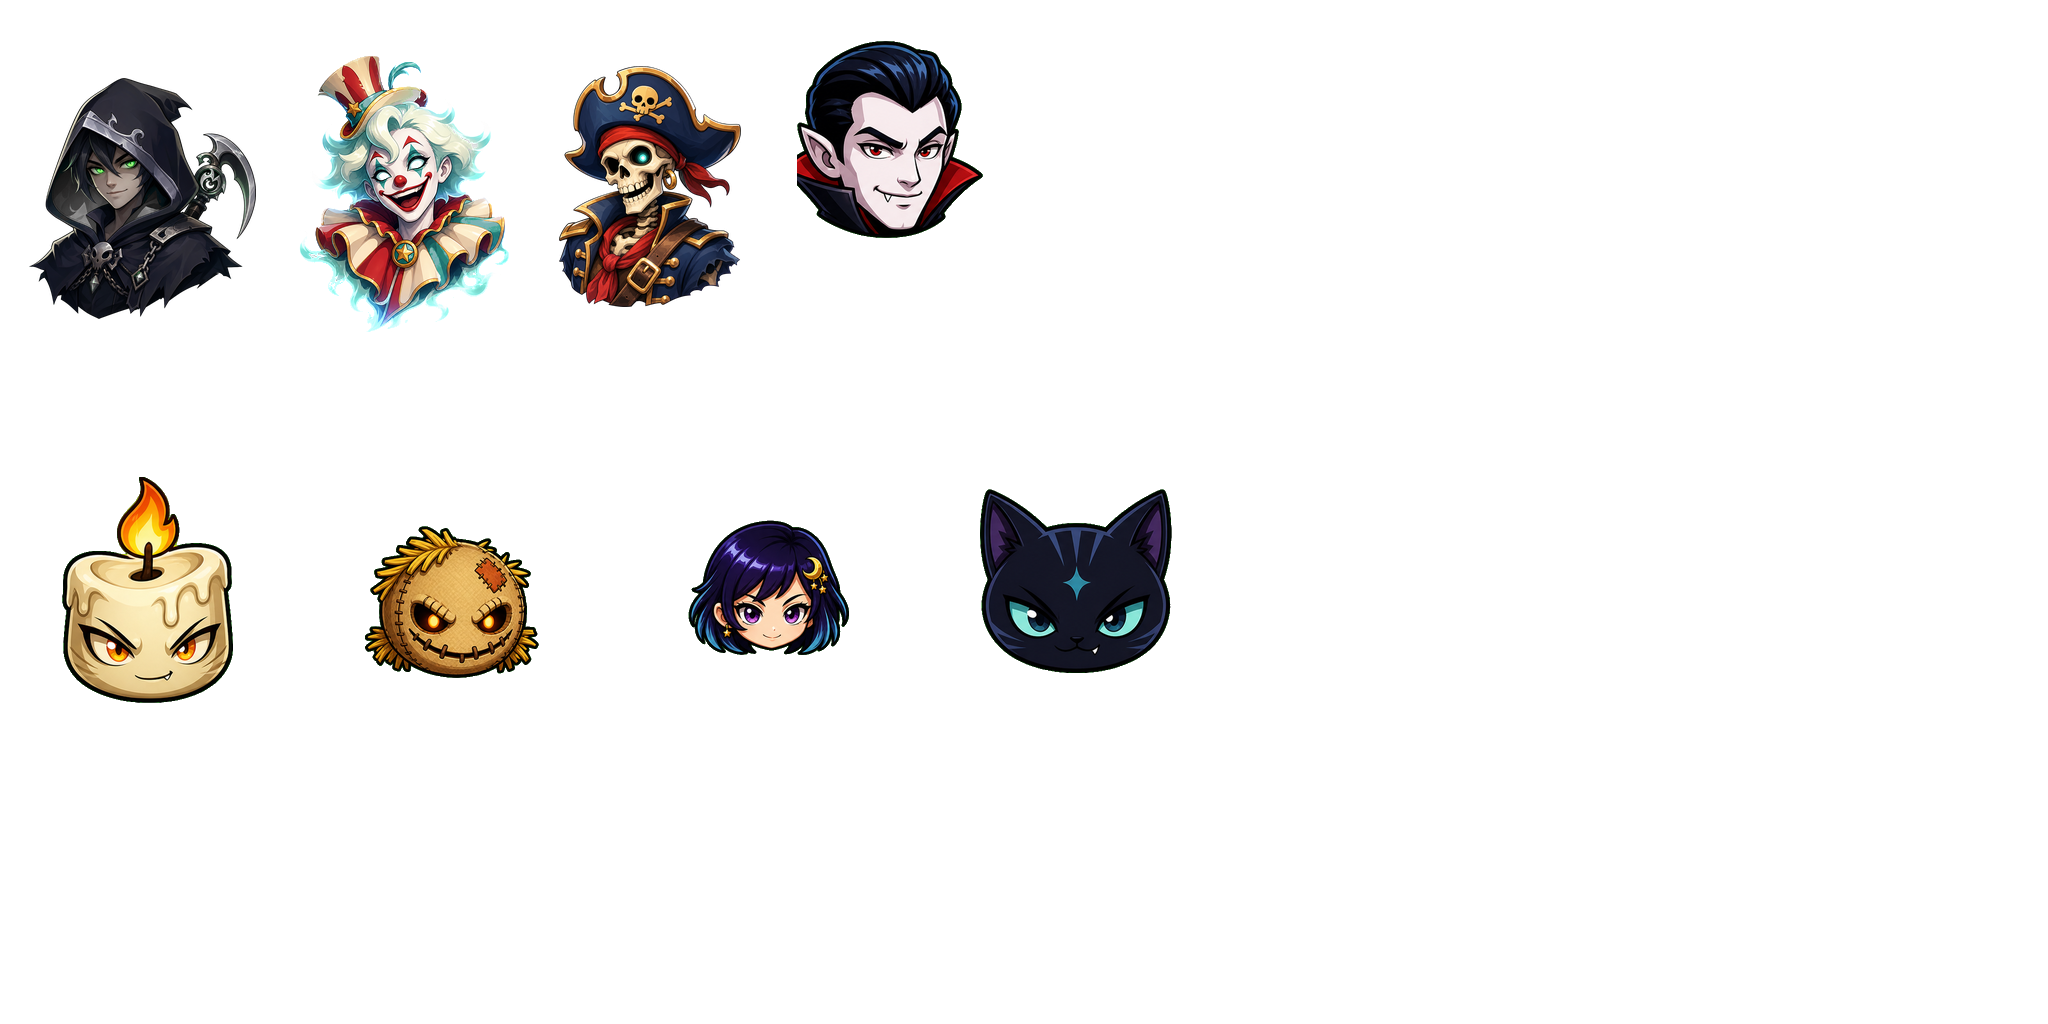
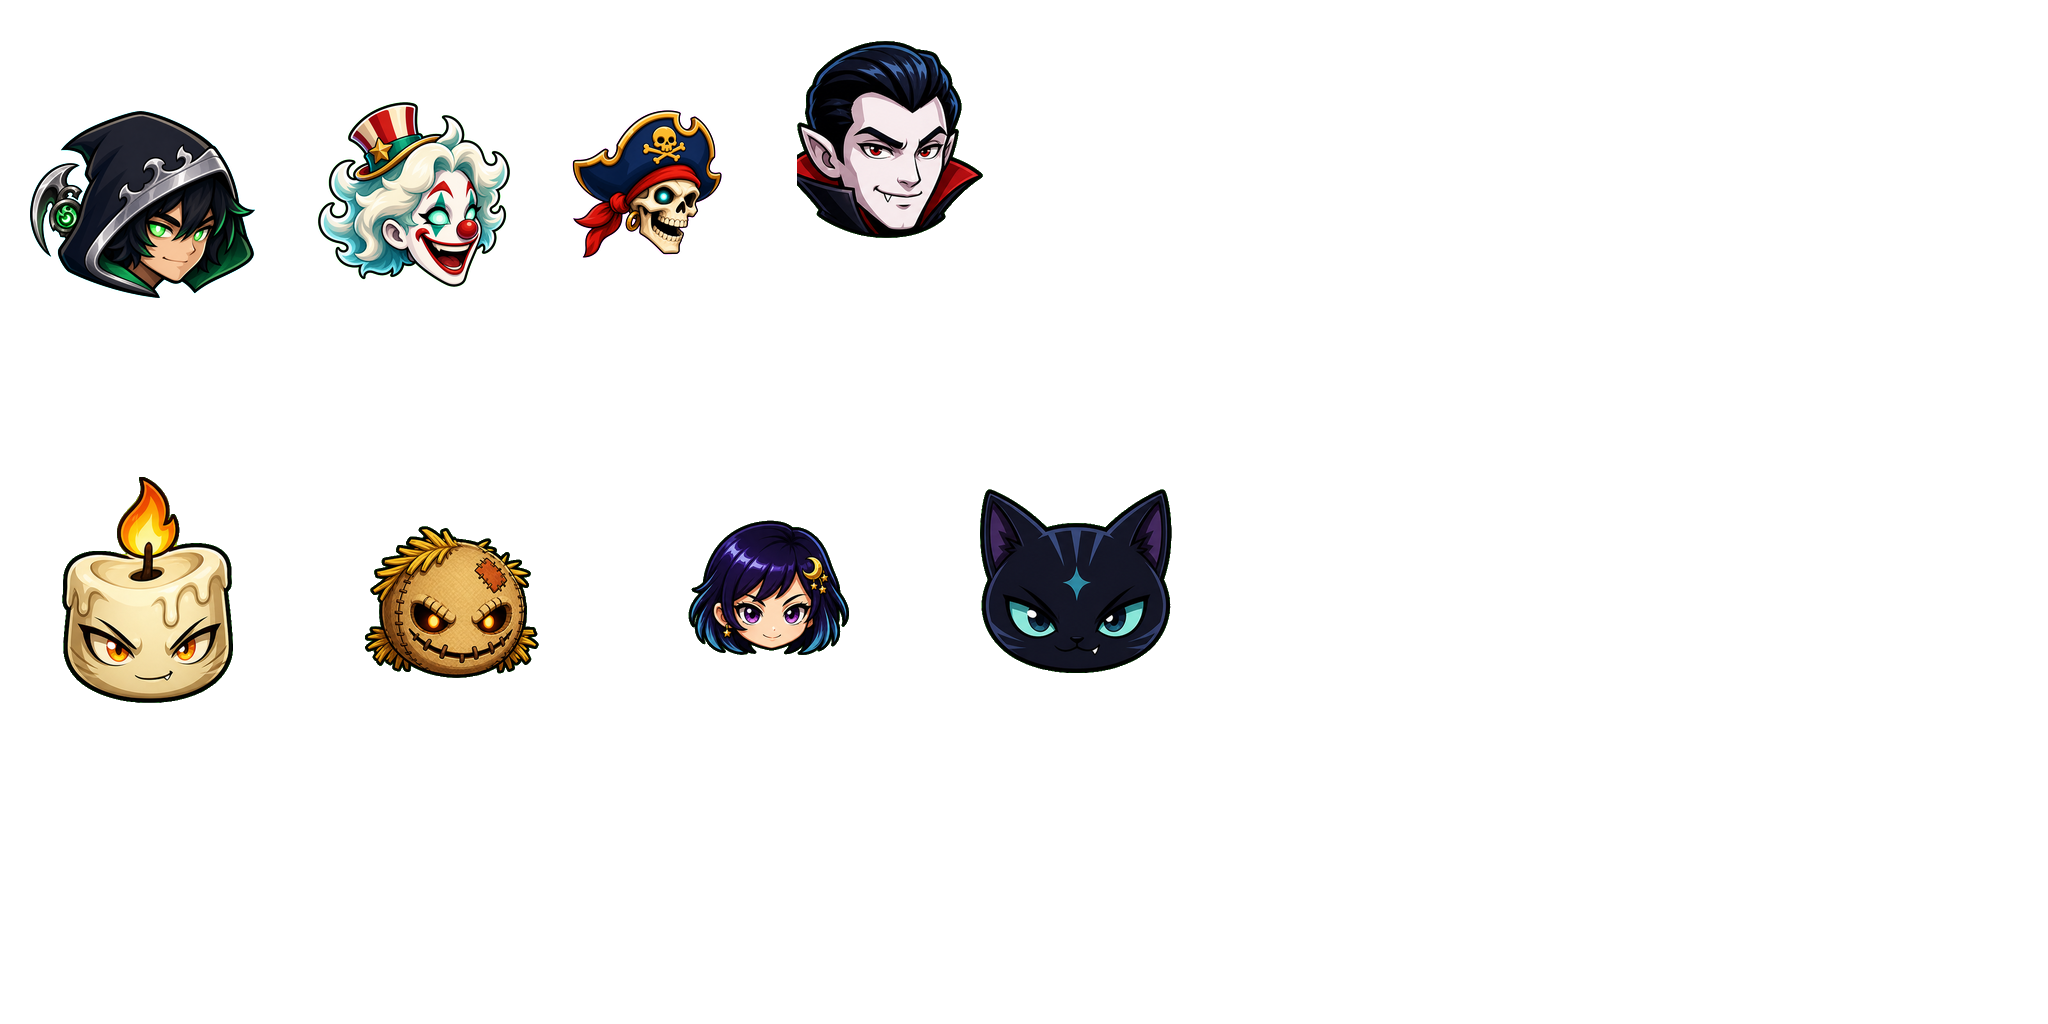
Refine Halloween character head silhouettes

Changed region(s): [[0.0, 0.0625, 0.375, 0.3125]]

diff --git a/Rim_Rush_Championship_Season/Tools/Art/rebuild_character_refresh_assets.py b/Rim_Rush_Championship_Season/Tools/Art/rebuild_character_refresh_assets.py
@@ -1,6 +1,7 @@
 from __future__ import annotations
 
 import json
+from collections import Counter
 from dataclasses import dataclass
 from pathlib import Path
 
@@ -20,13 +21,15 @@ PORTRAITS_PATH = PORTRAITS_DIR / "portraits_ui.png"
 PORTRAITS_JSON_PATH = PORTRAITS_DIR / "portraits_ui.json"
 
 OUTLINE_COLOR = (17, 14, 18)
+DRAGON_BONES_TARGET_PIXELS_PER_UNIT = 2.0
 
 
 @dataclass(frozen=True)
 class CharacterRefresh:
     internal_id: str
     visible_name: str
-    source_cutout: str
+    portrait_source: str
+    gameplay_source: str
     body_theme: str
     portrait_scale: float
     portrait_anchor_y: float
@@ -40,37 +43,40 @@ REPLACEMENTS = (
     CharacterRefresh(
         internal_id="pumpkin",
         visible_name="REAPER ACOLYTE",
-        source_cutout="reaper_acolyte_cutout.png",
+        portrait_source="reaper_acolyte_icon_source.png",
+        gameplay_source="reaper_acolyte_icon_source.png",
         body_theme="reaper",
-        portrait_scale=1.0,
-        portrait_anchor_y=0.53,
-        portrait_anchor_x=0.5,
-        gameplay_scale=1.04,
-        gameplay_anchor_y=0.54,
-        gameplay_anchor_x=0.5,
+        portrait_scale=0.99,
+        portrait_anchor_y=0.56,
+        portrait_anchor_x=0.55,
+        gameplay_scale=1.02,
+        gameplay_anchor_y=0.72,
+        gameplay_anchor_x=0.54,
     ),
     CharacterRefresh(
         internal_id="frankenstein",
         visible_name="GHOST CLOWN",
-        source_cutout="ghost_clown_cutout.png",
+        portrait_source="ghost_clown_icon_source.png",
+        gameplay_source="ghost_clown_icon_source.png",
         body_theme="clown",
         portrait_scale=0.98,
-        portrait_anchor_y=0.5,
+        portrait_anchor_y=0.58,
         portrait_anchor_x=0.5,
-        gameplay_scale=0.94,
-        gameplay_anchor_y=0.5,
-        gameplay_anchor_x=0.5,
+        gameplay_scale=1.0,
+        gameplay_anchor_y=0.75,
+        gameplay_anchor_x=0.51,
     ),
     CharacterRefresh(
         internal_id="mummy",
         visible_name="SKULL PIRATE",
-        source_cutout="skull_pirate_cutout.png",
+        portrait_source="skull_pirate_icon_source.png",
+        gameplay_source="skull_pirate_icon_source.png",
         body_theme="pirate",
-        portrait_scale=0.92,
-        portrait_anchor_y=0.5,
+        portrait_scale=0.97,
+        portrait_anchor_y=0.58,
         portrait_anchor_x=0.5,
-        gameplay_scale=0.9,
-        gameplay_anchor_y=0.5,
+        gameplay_scale=1.0,
+        gameplay_anchor_y=0.76,
         gameplay_anchor_x=0.5,
     ),
 )
@@ -91,6 +97,76 @@ def atlas_lookup(atlas_json: dict) -> dict[str, dict]:
 def trim_alpha(image: Image.Image) -> Image.Image:
     bbox = image.getchannel("A").getbbox()
     return image.crop(bbox) if bbox else image.copy()
+
+
+def border_key_color(image: Image.Image) -> tuple[int, int, int]:
+    src = image.convert("RGBA")
+    pixels = src.load()
+    samples: list[tuple[int, int, int]] = []
+
+    for x in range(src.width):
+        samples.append(pixels[x, 0][:3])
+        samples.append(pixels[x, src.height - 1][:3])
+
+    for y in range(1, src.height - 1):
+        samples.append(pixels[0, y][:3])
+        samples.append(pixels[src.width - 1, y][:3])
+
+    return Counter(samples).most_common(1)[0][0]
+
+
+def remove_chroma_background(
+    image: Image.Image,
+    *,
+    transparent_threshold: float = 16.0,
+    opaque_threshold: float = 84.0,
+) -> Image.Image:
+    src = image.convert("RGBA")
+    key = border_key_color(src)
+    pixels = src.load()
+    out = Image.new("RGBA", src.size, (0, 0, 0, 0))
+    out_pixels = out.load()
+    span = max(0.0001, opaque_threshold - transparent_threshold)
+
+    for y in range(src.height):
+        for x in range(src.width):
+            r, g, b, a = pixels[x, y]
+            if a <= 0:
+                continue
+
+            distance = ((r - key[0]) ** 2 + (g - key[1]) ** 2 + (b - key[2]) ** 2) ** 0.5
+            if distance <= transparent_threshold:
+                continue
+
+            if distance >= opaque_threshold:
+                out_pixels[x, y] = (r, g, b, a)
+                continue
+
+            alpha_scale = (distance - transparent_threshold) / span
+            out_alpha = int(round(a * alpha_scale))
+            if out_alpha <= 0:
+                continue
+
+            # Light despill keeps the contour clean against neon key colors.
+            despill = 0.42 * (1.0 - alpha_scale)
+            out_pixels[x, y] = (
+                int(round(r * (1.0 - despill) + key[0] * despill * 0.18)),
+                int(round(g * (1.0 - despill) + key[1] * despill * 0.18)),
+                int(round(b * (1.0 - despill) + key[2] * despill * 0.18)),
+                out_alpha,
+            )
+
+    return trim_alpha(out)
+
+
+def prepare_source_image(source_name: str) -> Image.Image:
+    source_path = CHARACTER_SOURCE_DIR / source_name
+    source = Image.open(source_path).convert("RGBA")
+    alpha_min, alpha_max = source.getchannel("A").getextrema()
+    if alpha_min == 255 and alpha_max == 255:
+        return remove_chroma_background(source)
+
+    return trim_alpha(source)
 
 
 def premultiplied_resize(image: Image.Image, size: tuple[int, int]) -> Image.Image:
@@ -163,6 +239,26 @@ def fit_subject_to_canvas(
     paste_y = min_y if max_y <= min_y else int(round(min_y + (max_y - min_y) * anchor_y))
     canvas.alpha_composite(fitted, (paste_x, paste_y))
     return canvas
+
+
+def ensure_dragon_bones_resolution(texture: Image.Image, texture_json: dict) -> tuple[Image.Image, dict]:
+    current_pixels_per_unit = float(texture_json.get("pixelsPerUnit", 1.0))
+    scale_factor = DRAGON_BONES_TARGET_PIXELS_PER_UNIT / max(0.0001, current_pixels_per_unit)
+    if abs(scale_factor - 1.0) <= 0.0001:
+        texture_json["pixelsPerUnit"] = DRAGON_BONES_TARGET_PIXELS_PER_UNIT
+        return texture, texture_json
+
+    texture = premultiplied_resize(
+        texture,
+        (int(round(texture.width * scale_factor)), int(round(texture.height * scale_factor))),
+    )
+
+    for sub in texture_json["SubTexture"]:
+        for key in ("x", "y", "width", "height"):
+            sub[key] = int(round(sub[key] * scale_factor))
+
+    texture_json["pixelsPerUnit"] = DRAGON_BONES_TARGET_PIXELS_PER_UNIT
+    return texture, texture_json
 
 
 def crop_subtexture(texture: Image.Image, sub: dict) -> Image.Image:
@@ -361,8 +457,7 @@ def update_portraits() -> tuple[Image.Image, dict[str, dict]]:
     lookup = atlas_lookup(portrait_json)
 
     for replacement in REPLACEMENTS:
-        source_path = CHARACTER_SOURCE_DIR / replacement.source_cutout
-        source = Image.open(source_path).convert("RGBA")
+        source = prepare_source_image(replacement.portrait_source)
         target_name = f"custom_head_{replacement.internal_id}"
         sub = lookup[target_name]
         rendered = fit_subject_to_canvas(
@@ -382,11 +477,11 @@ def update_portraits() -> tuple[Image.Image, dict[str, dict]]:
 def update_dragon_bones() -> tuple[Image.Image, dict[str, dict]]:
     texture = Image.open(TEXTURE_PATH).convert("RGBA")
     texture_json = load_json(TEXTURE_JSON_PATH)
+    texture, texture_json = ensure_dragon_bones_resolution(texture, texture_json)
     lookup = atlas_lookup(texture_json)
 
     for replacement in REPLACEMENTS:
-        source_path = CHARACTER_SOURCE_DIR / replacement.source_cutout
-        source = Image.open(source_path).convert("RGBA")
+        source = prepare_source_image(replacement.gameplay_source)
         head_name = f"custom_head_{replacement.internal_id}"
         head_sub = lookup[head_name]
         rendered_head = fit_subject_to_canvas(

diff --git a/Rim_Rush_Championship_Season/Assets/rimrush/Scripts/Data/rimrushPlayersData.cs b/Rim_Rush_Championship_Season/Assets/rimrush/Scripts/Data/rimrushPlayersData.cs
@@ -36,9 +36,9 @@ namespace rimrush
 
         private static readonly rimrushCharacterDefinition[] CharacterDefinitions =
         {
-            new rimrushCharacterDefinition { DisplayName = "REAPER ACOLYTE", SkinIndex = 0, FormIndex = 0, SuperId = 3, Enabled = true, PortraitSpriteName = "custom_head_pumpkin", HeadOffsetX = 1f, HeadOffsetY = -2f, HeadScale = 1f, PreviewScaleMultiplier = 0.99f, PortraitScaleMultiplier = 0.98f, PortraitOffsetY = 3f },
-            new rimrushCharacterDefinition { DisplayName = "GHOST CLOWN", SkinIndex = 1, FormIndex = 1, SuperId = 0, Enabled = true, PortraitSpriteName = "custom_head_frankenstein", HeadOffsetX = 1.5f, HeadOffsetY = -2.5f, HeadScale = 0.98f, PreviewScaleMultiplier = 0.97f, PreviewOffsetY = 1f, PortraitScaleMultiplier = 0.95f, PortraitOffsetY = 3f },
-            new rimrushCharacterDefinition { DisplayName = "SKULL PIRATE", SkinIndex = 2, FormIndex = 2, SuperId = 1, Enabled = true, PortraitSpriteName = "custom_head_mummy", HeadOffsetX = 2f, HeadOffsetY = -2f, HeadScale = 0.98f, PreviewScaleMultiplier = 0.97f, PreviewOffsetY = 1f, PortraitScaleMultiplier = 0.96f, PortraitOffsetY = 4f },
+            new rimrushCharacterDefinition { DisplayName = "REAPER ACOLYTE", SkinIndex = 0, FormIndex = 0, SuperId = 3, Enabled = true, PortraitSpriteName = "custom_head_pumpkin", HeadOffsetX = 0.75f, HeadOffsetY = -0.5f, HeadScale = 1.02f, PreviewScaleMultiplier = 1f, PortraitScaleMultiplier = 1f, PortraitOffsetY = 8f },
+            new rimrushCharacterDefinition { DisplayName = "GHOST CLOWN", SkinIndex = 1, FormIndex = 1, SuperId = 0, Enabled = true, PortraitSpriteName = "custom_head_frankenstein", HeadOffsetX = 4.5f, HeadOffsetY = -6f, HeadScale = 1f, PreviewScaleMultiplier = 0.99f, PortraitScaleMultiplier = 0.98f, PortraitOffsetY = 9f },
+            new rimrushCharacterDefinition { DisplayName = "SKULL PIRATE", SkinIndex = 2, FormIndex = 2, SuperId = 1, Enabled = true, PortraitSpriteName = "custom_head_mummy", HeadOffsetX = 1.5f, HeadOffsetY = -7.5f, HeadScale = 1.02f, PreviewScaleMultiplier = 1f, PreviewOffsetY = -2f, PortraitScaleMultiplier = 0.98f, PortraitOffsetY = 9f },
             new rimrushCharacterDefinition { DisplayName = "VAMPIRE", SkinIndex = 3, FormIndex = 3, SuperId = 2, Enabled = true, PortraitSpriteName = "custom_head_vampire", HeadOffsetY = -10.5f, HeadScale = 0.95f, PreviewScaleMultiplier = 0.96f, PortraitScaleMultiplier = 1f, PortraitOffsetY = 12f },
             new rimrushCharacterDefinition { DisplayName = "CANDLEMAN", SkinIndex = 4, FormIndex = 4, SuperId = 3, Enabled = true, PortraitSpriteName = "custom_head_candle", HeadOffsetX = 2.75f, HeadOffsetY = 3.5f, HeadScale = 0.96f, PreviewScaleMultiplier = 0.94f, PortraitScaleMultiplier = 0.85f, PortraitOffsetY = -9f },
             new rimrushCharacterDefinition { DisplayName = "SCARECROW", SkinIndex = 5, FormIndex = 5, SuperId = 0, Enabled = true, PortraitSpriteName = "custom_head_scarecrow", HeadOffsetY = 7f, HeadScale = 1.05f, PreviewScaleMultiplier = 0.97f, PreviewOffsetY = 2f, PortraitScaleMultiplier = 1.05f, PortraitOffsetY = -10f },

diff --git a/Rim_Rush_Championship_Season/Assets/rimrush/Scripts/States/rimrushGameBootstrap.cs b/Rim_Rush_Championship_Season/Assets/rimrush/Scripts/States/rimrushGameBootstrap.cs
@@ -1280,7 +1280,7 @@ namespace rimrush
             menuButtons.Add(new rimrushMenuButton("<", centerX - SelectorArrowOffsetX, SelectorArrowY, SelectorArrowSize, SelectorArrowSize, previousCharacterAction, runtimeRoot));
             menuButtons.Add(new rimrushMenuButton(">", centerX + SelectorArrowOffsetX, SelectorArrowY, SelectorArrowSize, SelectorArrowSize, nextCharacterAction, runtimeRoot));
 
-            CreatePreviewPlayer(characterId, centerX, previewY, previewScale);
+            CreatePreviewPlayer(key, characterId, centerX, previewY, previewScale);
             CreateMenuText(
                 $"{key}_CharacterName",
                 rimrushPlayersData.GetCharacterName(characterId),
@@ -1328,22 +1328,23 @@ namespace rimrush
         /// Executes Create Preview Player for the TournamentStandingsRowViewModel workflow.
         /// This method coordinates related state updates so gameplay behavior stays consistent and predictable.
         /// </summary>
+        /// <param name="key">Input value used by this step of the workflow.</param>
         /// <param name="characterId">Input value used by this step of the workflow.</param>
         /// <param name="x">Input value used by this step of the workflow.</param>
         /// <param name="y">Input value used by this step of the workflow.</param>
         /// <param name="scale">Input value used by this step of the workflow.</param>
-        private void CreatePreviewPlayer(int characterId, float x, float y, float scale)
+        private void CreatePreviewPlayer(string key, int characterId, float x, float y, float scale)
         {
             var previewScale = scale * PreviewScaleFactor * rimrushPlayersData.GetCharacterPreviewScaleMultiplier(characterId);
-            var shadow = rimrushRender.Sprite("PreviewShadow", rimrushAtlasCache.Instance.Interface, "loginSelect0000", x, y + PreviewShadowYOffset, 0.5f, 0.5f, 18, runtimeRoot);
+            var shadow = rimrushRender.Sprite($"{key}_PreviewShadow", rimrushAtlasCache.Instance.Interface, "loginSelect0000", x, y + PreviewShadowYOffset, 0.5f, 0.5f, 18, runtimeRoot);
             shadow.transform.localScale *= PreviewShadowScale;
             shadow.GetComponent<SpriteRenderer>().color = new Color(1f, 1f, 1f, 0.55f);
 
-            var previewRoot = new GameObject($"Preview_{characterId}");
+            var previewRoot = new GameObject($"{key}_Preview");
             previewRoot.transform.SetParent(runtimeRoot, false);
             rimrushRender.ApplyPixelTransform(previewRoot.transform, x, y, 0f, previewScale);
 
-            var armature = rimrushPlayersData.BuildGameplayArmature($"PreviewArmature_{characterId}");
+            var armature = rimrushPlayersData.BuildGameplayArmature($"{key}_PreviewArmature");
             if (armature == null)
             {
                 return;

diff --git a/Rim_Rush_Championship_Season/Assets/rimrush/Scripts/DragonBonesLite/DBLiteRuntime.cs b/Rim_Rush_Championship_Season/Assets/rimrush/Scripts/DragonBonesLite/DBLiteRuntime.cs
@@ -454,6 +454,7 @@ namespace rimrush
     public sealed class DBLiteTextureAtlas
     {
         private readonly Texture2D texture;
+        private readonly float pixelsPerUnit;
         private readonly Dictionary<string, DBLiteSubTexture> subTextures = new Dictionary<string, DBLiteSubTexture>();
         private readonly Dictionary<string, Sprite> sprites = new Dictionary<string, Sprite>();
 
@@ -462,9 +463,10 @@ namespace rimrush
         /// This method coordinates related state updates so gameplay behavior stays consistent and predictable.
         /// </summary>
         /// <param name="texture">Input value used by this step of the workflow.</param>
-        private DBLiteTextureAtlas(Texture2D texture)
+        private DBLiteTextureAtlas(Texture2D texture, float pixelsPerUnit)
         {
             this.texture = texture;
+            this.pixelsPerUnit = Mathf.Max(0.0001f, pixelsPerUnit);
         }
 
         /// <summary>
@@ -477,8 +479,8 @@ namespace rimrush
         /// <returns>Result produced for downstream logic in the current frame.</returns>
         public static DBLiteTextureAtlas Parse(string name, Texture2D texture, string json)
         {
-            var atlas = new DBLiteTextureAtlas(texture);
             var root = rimrushJson.AsDict(rimrushJson.Parse(json));
+            var atlas = new DBLiteTextureAtlas(texture, rimrushJson.Float(root, "pixelsPerUnit", 1f));
             var list = rimrushJson.List(root, "SubTexture");
             if (list == null)
             {
@@ -531,7 +533,7 @@ namespace rimrush
             }
 
             var rect = new Rect(sub.X, texture.height - sub.Y - sub.Height, sub.Width, sub.Height);
-            var sprite = UnityEngine.Sprite.Create(texture, rect, new Vector2(0.5f, 0.5f), 1f, 0, SpriteMeshType.FullRect);
+            var sprite = UnityEngine.Sprite.Create(texture, rect, new Vector2(0.5f, 0.5f), pixelsPerUnit, 0, SpriteMeshType.FullRect);
             sprite.name = name;
             sprites[name] = sprite;
             return sprite;

diff --git a/Rim_Rush_Championship_Season/ArtSource/CharacterRefresh/README.md b/Rim_Rush_Championship_Season/ArtSource/CharacterRefresh/README.md
@@ -12,17 +12,17 @@ The runtime still keeps the original DragonBones slot keys so the existing `sk2.
 
 ## Source Files
 
+- `reaper_acolyte_icon_source.png`
+- `ghost_clown_icon_source.png`
+- `skull_pirate_icon_source.png`
+
+These are the current right-facing portrait/gameplay source images on chroma-key backgrounds. The rebuild script removes the chroma key automatically, so committed cutout intermediates are no longer required for the live pipeline.
+
 - `reaper_acolyte_source.png`
 - `ghost_clown_source.png`
 - `skull_pirate_source.png`
 
-These are the original generated portrait sources on chroma-key backgrounds.
-
-- `reaper_acolyte_cutout.png`
-- `ghost_clown_cutout.png`
-- `skull_pirate_cutout.png`
-
-These are the transparency-clean cutouts used by `Tools/Art/rebuild_character_refresh_assets.py`.
+These older first-pass sources are kept only for reference.
 
 ## Rebuild Workflow
 
@@ -36,6 +36,9 @@ The script updates:
 
 - `Assets/rimrush/Resources/rimrush/Portraits/portraits_ui.png`
 - `Assets/rimrush/Resources/rimrush/DragonBones/texture2.png`
+- `Assets/rimrush/Resources/rimrush/DragonBones/texture2.json`
+
+The DragonBones atlas is rebuilt at 2x resolution and tagged with `pixelsPerUnit = 2.0` so gameplay characters stay the same on-screen size while rendering from a sharper source atlas.
 
 It also writes a visual verification sheet to:
 
